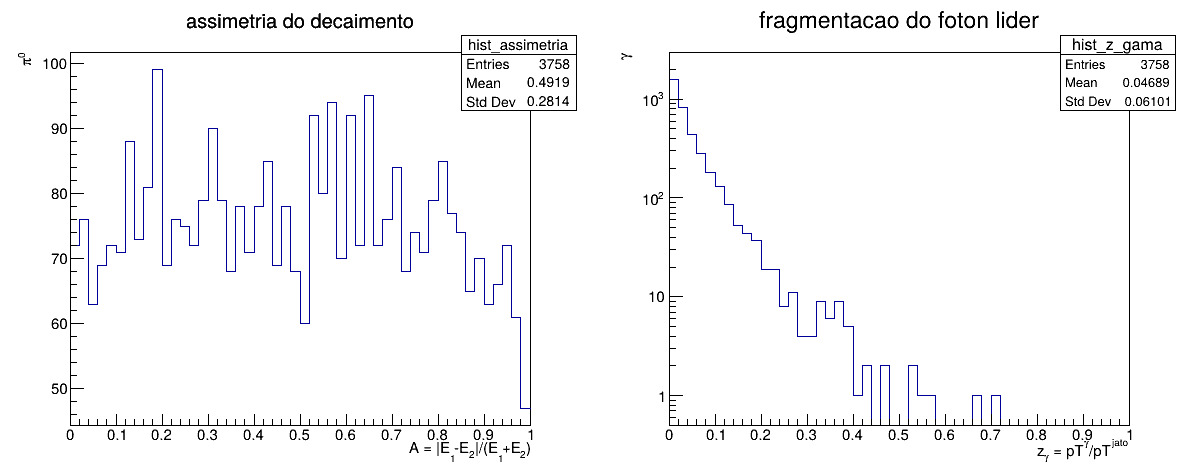
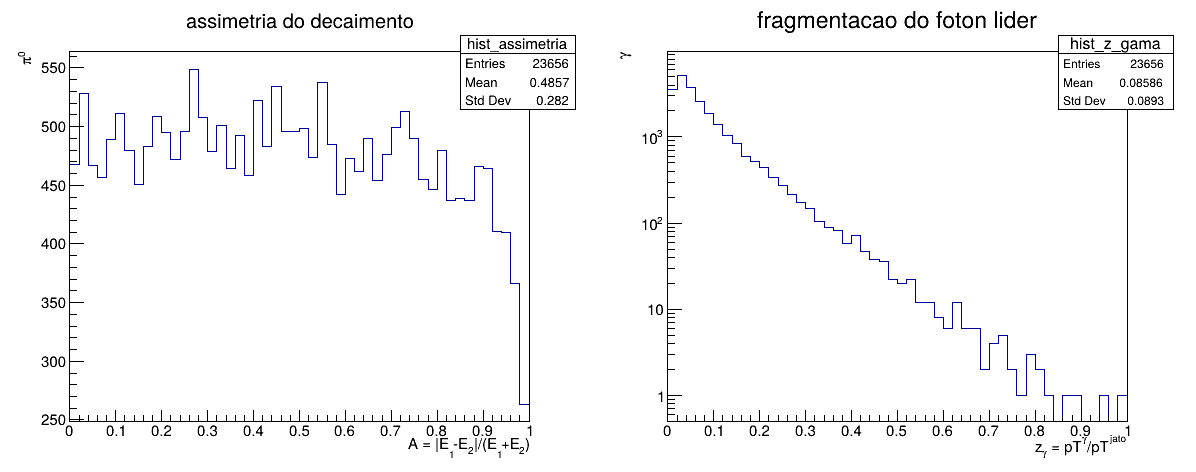
Analise por faixa de pT: lider x nao-lider e corte em z
Amplia o jatos_pi0_decai.cc para investigar onde vivem os pi0 de z alto,
que sao os candidatos a gerar fotons falsamente isolados.

Mudancas na analise:
- 50000 eventos (era 5000), pTHatMin = 4 GeV e pT minimo de jato = 5 GeV,
  para alcancar a regiao de jato mole
- cinco faixas de pT do jato: 5-8, 8-10, 10-12, 12-16 e 16-20 GeV
- histogramas 2D de pT do foton lider x nao-lider, em duas versoes por
  faixa: todos os pi0 e apenas os com z > 0,9
- histograma 2D de z do pi0 x pT do jato, para ver em que regiao a cauda
  de z alto se concentra
- saida em jatos_pi0_decai.root, com todos os histogramas
- resumo no terminal com as contagens por faixa e o numero de pi0 acima
  de varios cortes de z

Figuras novas em figuras/: lider_naolider_cortez, lider_naolider_todos e
z_vs_ptjato; as tres do decaimento foram regeradas com os parametros novos.

Logs de terminal (resumo.txt, saida_100k.txt) ficam fora do versionamento,
mesmo criterio ja' aplicado ao saida.txt.

diff --git a/FotonDireto/jatos_pi0_decai.cc b/FotonDireto/jatos_pi0_decai.cc
@@ -1,12 +1,12 @@
 // Jatos e funcao de fragmentacao do pion neutro -- VERSAO COM O pi0 DECAINDO.
 // Pythia gera, FastJet agrupa em jatos, e medimos z = pT(pi0)/pT(jato).
 //
-
 #include "TSystem.h"
 #include "TClonesArray.h"
 #include "TParticle.h"
 #include "TPythia8.h"
 #include "TCanvas.h"
+#include "TFile.h"
 #include "TH1F.h"
 #include "TH2F.h"
 #include "TMath.h"
@@ -15,7 +15,9 @@
 #include "fastjet/ClusterSequence.hh"
 
 #include <vector>
-#include <set>     // MUDANCA 1: necessario para nao contar o mesmo pi0 duas vezes
+#include <set>
+
+const Int_t NFAIXAS = 5;
 
 // Ponteiros em escopo de arquivo: continuam acessiveis no prompt do ROOT
 // depois que a macro termina, entao da' para mexer nos histogramas.
@@ -26,9 +28,17 @@ TH1F   *hist_z       = 0;
 TH2F   *hist_eta_phi = 0;
 TH1F   *hist_assimetria = 0;
 TH1F   *hist_z_gama     = 0;
+TH2F   *hist_z_vs_ptjato = 0;   // NOVO: onde os z altos vivem
+
+TH2F   *hist_lead_faixa[NFAIXAS]    = {0, 0, 0, 0, 0};   // com z > corte
+TH2F   *hist_lead_faixa_td[NFAIXAS] = {0, 0, 0, 0, 0};   // todos os pi0
+
 TCanvas *c1 = 0;
 TCanvas *c2 = 0;
 TCanvas *c3 = 0;
+TCanvas *c4 = 0;
+TCanvas *c5 = 0;
+TCanvas *c6 = 0;
 
 Bool_t eh_neutrino(Int_t pdg) // devolve true se o PDG for de neutrino
 {
@@ -36,14 +46,13 @@ Bool_t eh_neutrino(Int_t pdg) // devolve true se o PDG for de neutrino
   return (a == 12 || a == 14 || a == 16 || a == 18);
 }
 
-// MUDANCA 2: funcao nova. Sobe a cadeia de maes a partir da particula i e
-// devolve o indice do primeiro pi0 ancestral (-1 se nao houver).
+// Sobe a cadeia de maes a partir da particula i e devolve o indice do primeiro
+// pi0 ancestral (-1 se nao houver).
 //
 // Convencao dos indices, ja' deslocada pelo ROOT no ImportParticles:
 //   m1 <  0     -> nao tem mae, chegou no topo do registro
 //   m2 == m1    -> "carbon copy" (mesma particula recopiada); continua subindo
-//   m2 >  m1    -> FAIXA de maes = hadronizacao da string de cor. PARA AQUI,
-
+//   m2 >  m1    -> FAIXA de maes = hadronizacao da string de cor. PARA AQUI.
 Int_t mae_pi0(TClonesArray *lista, Int_t i)
 {
   Int_t n = lista->GetEntriesFast();
@@ -69,34 +78,41 @@ Int_t mae_pi0(TClonesArray *lista, Int_t i)
 
 void jatos_pi0_decai()
 {
-  // ---- parametros 
-  Int_t    nev          = 5000;
+  // ---- parametros
+  Int_t    nev          = 50000;
   Double_t R            = 0.4;
-  Double_t pt_jato_min  = 20.;
+  Double_t pt_jato_min  = 5.;      // casa com a primeira faixa
   Double_t eta_part_max = 0.9;
   Double_t y_jato_max   = 0.9 - R;
   Double_t energia      = 14000.;
+  Double_t corte_z      = 0.9;     // troque aqui para 0,7 ou 0,5 se precisar
 
-  // ---- Pythia 
+  // limites das cinco faixas de pT do jato
+  Double_t faixa_lo[NFAIXAS] = { 5.,  8., 10., 12., 16.};
+  Double_t faixa_hi[NFAIXAS] = { 8., 10., 12., 16., 20.};
 
+  // ---- arquivo de saida: criado ANTES dos histogramas, para que todos
+  // ---- sejam associados a ele e salvos automaticamente no Write()
+  TFile *arquivo = new TFile("jatos_pi0_decai.root", "RECREATE");
+
+  // ---- Pythia
   TPythia8 *pythia8 = new TPythia8();
   pythia8->ReadString("HardQCD:all = on");
   pythia8->ReadString("Random:setSeed = on");
-
-  pythia8->ReadString("PhaseSpace:pTHatMin = 20."); // sem isso quase nao sai jato acima de 20 GeV
+  pythia8->ReadString("PhaseSpace:pTHatMin = 4.");  // um pouco abaixo do corte
   pythia8->ReadString("Random:seed = 43");
 
   pythia8->Initialize(2212, 2212, energia);
 
   TClonesArray *particulas = new TClonesArray("TParticle", 10000);
 
-  // ---- FastJet -------------------------------------------------------------
+  // ---- FastJet
   fastjet::JetDefinition jet_def(fastjet::antikt_algorithm, R);
   std::vector<fastjet::PseudoJet> entradas;
 
-  // ---- histogramas ---------------------------------------------------------
+  // ---- histogramas
   hist_pt_jato = new TH1F("hist_pt_jato",
-      "pT dos jatos;pT^{jato} [GeV/c];jatos", 100, 0, 150);
+      "pT dos jatos;pT^{jato} [GeV/c];jatos", 100, 0, 100);
   hist_n_part  = new TH1F("hist_n_part",
       "particulas por jato;N_{const};jatos", 60, 0, 60);
   hist_pt_pi0  = new TH1F("hist_pt_pi0",
@@ -107,7 +123,6 @@ void jatos_pi0_decai()
       "mapa #eta-#phi dos #pi^{0};#eta;#phi [rad]",
       60, -eta_part_max, eta_part_max, 60, -TMath::Pi(), TMath::Pi());
 
-  
   hist_assimetria = new TH1F("hist_assimetria",
       "assimetria do decaimento;A = |E_{1}-E_{2}|/(E_{1}+E_{2});#pi^{0}",
       50, 0, 1);
@@ -115,13 +130,42 @@ void jatos_pi0_decai()
       "fragmentacao do foton lider;z_{#gamma} = pT^{#gamma}/pT^{jato};#gamma",
       50, 0, 1);
 
-  Long64_t n_jatos = 0, n_pi0 = 0;
-  Long64_t n_gama = 0;   // ADICAO 3: quantos pares gama gama foram analisados
+  // NOVO: mostra em qual regiao de pT do jato os z altos aparecem
+  hist_z_vs_ptjato = new TH2F("hist_z_vs_ptjato",
+      "z do #pi^{0} x pT do jato;pT^{jato} [GeV/c];z = pT^{#pi^{0}}/pT^{jato}",
+      50, 0, 50, 50, 0, 1);
 
-  // ---- laco de eventos -----------------------------------------------------
+  // os dez histogramas 2D (cinco faixas, com e sem corte de z).
+  // Nome e titulo sao montados com sprintf porque mudam de faixa para faixa.
+  char nome[100], titulo[200];
+
+  for (Int_t f = 0; f < NFAIXAS; f++)
+  {
+    sprintf(nome, "hist_lead_faixa_%d", f);
+    sprintf(titulo,
+        "pT lider x nao-lider, %.0f < pT^{jato} < %.0f GeV, z > %.1f;"
+        "pT^{#gamma lider} [GeV/c];pT^{#gamma nao-lider} [GeV/c]",
+        faixa_lo[f], faixa_hi[f], corte_z);
+    hist_lead_faixa[f] = new TH2F(nome, titulo, 50, 0, 20, 50, 0, 20);
+
+    sprintf(nome, "hist_lead_faixa_td_%d", f);
+    sprintf(titulo,
+        "pT lider x nao-lider, %.0f < pT^{jato} < %.0f GeV, todos os #pi^{0};"
+        "pT^{#gamma lider} [GeV/c];pT^{#gamma nao-lider} [GeV/c]",
+        faixa_lo[f], faixa_hi[f]);
+    hist_lead_faixa_td[f] = new TH2F(nome, titulo, 50, 0, 20, 50, 0, 20);
+  }
+
+  Long64_t n_jatos = 0, n_pi0 = 0;
+  Long64_t n_gama = 0;                      // pares gama gama analisados
+  Long64_t n_faixa[NFAIXAS]    = {0, 0, 0, 0, 0};   // entradas com z > corte
+  Long64_t n_faixa_td[NFAIXAS] = {0, 0, 0, 0, 0};   // entradas sem corte
+
+  // ---- laco de eventos
   for (Int_t iev = 0; iev < nev; iev++)
   {
-    if (iev % 500 == 0) printf("  evento %d / %d\n", iev, nev);
+    if (iev % 10000 == 0) printf("  evento %d / %d\n", iev, nev);
+
     pythia8->GenerateEvent();
     pythia8->ImportParticles(particulas, "All");
     Int_t np = particulas->GetEntriesFast();
@@ -148,7 +192,7 @@ void jatos_pi0_decai()
     std::vector<fastjet::PseudoJet> jatos =
         fastjet::sorted_by_pt(cluster_seq.inclusive_jets(pt_jato_min));
 
-    // ---- laco de jatos -----------------------------------------------------
+    // ---- laco de jatos
     Int_t n_jatos_ev = jatos.size();
     for (Int_t ij = 0; ij < n_jatos_ev; ij++)
     {
@@ -163,7 +207,12 @@ void jatos_pi0_decai()
       hist_pt_jato->Fill(pt_jato);
       hist_n_part ->Fill(n_const);
 
-      // ---- laco de constituintes: procura os pi0 ---------------------------
+      // descobre em qual faixa de pT este jato cai (-1 = fora de todas)
+      Int_t faixa = -1;
+      for (Int_t f = 0; f < NFAIXAS; f++)
+        if (pt_jato >= faixa_lo[f] && pt_jato < faixa_hi[f]) faixa = f;
+
+      // ---- laco de constituintes: procura os pi0
       std::set<Int_t> indices_pi0;
 
       for (Int_t ic = 0; ic < n_const; ic++)
@@ -190,9 +239,10 @@ void jatos_pi0_decai()
         Double_t phi = part->Phi();
         if (phi > TMath::Pi()) phi -= 2 * TMath::Pi();
 
-        hist_pt_pi0 ->Fill(pt_pi0);
-        hist_z      ->Fill(z);
-        hist_eta_phi->Fill(part->Eta(), phi);
+        hist_pt_pi0     ->Fill(pt_pi0);
+        hist_z          ->Fill(z);
+        hist_eta_phi    ->Fill(part->Eta(), phi);
+        hist_z_vs_ptjato->Fill(pt_jato, z);   // NOVO
 
         // O pi0 encontrado pelo mae_pi0() e' justamente a copia que decaiu,
         // entao as filhas dele sao os dois fotons.
@@ -213,44 +263,91 @@ void jatos_pi0_decai()
         Double_t assimetria = TMath::Abs(e1 - e2) / (e1 + e2);
         hist_assimetria->Fill(assimetria);
 
-        // funcao de fragmentacao do foton MAIS ENERGETICO dos dois
-        TParticle *gama_lider = gama1;
-        if (e2 > e1) gama_lider = gama2;
+        // separa o foton lider (mais energetico) do nao-lider
+        TParticle *gama_lider     = gama1;
+        TParticle *gama_nao_lider = gama2;
+        if (e2 > e1) { gama_lider = gama2; gama_nao_lider = gama1; }
 
         Double_t z_gama = gama_lider->Pt() / pt_jato;
         hist_z_gama->Fill(z_gama);
 
         n_gama++;
+
+        // os histogramas 2D por faixa de pT do jato
+        if (faixa >= 0)
+        {
+          Double_t pt_lider     = gama_lider->Pt();
+          Double_t pt_nao_lider = gama_nao_lider->Pt();
+
+          // versao sem corte de z: todos os pi0 da faixa
+          hist_lead_faixa_td[faixa]->Fill(pt_lider, pt_nao_lider);
+          n_faixa_td[faixa]++;
+
+          // versao com corte: so os pi0 que levam mais que corte_z do jato
+          if (z > corte_z)
+          {
+            hist_lead_faixa[faixa]->Fill(pt_lider, pt_nao_lider);
+            n_faixa[faixa]++;
+          }
+        }
       }
     }
   }
 
-  // ---- canvas 1: quatro paineis --------------------------------------------
+  // ---- canvas 1: quatro paineis
   c1 = new TCanvas("c1", "Jatos e fragmentacao do pi0", 1200, 1000);
   c1->Divide(2, 2);
   c1->cd(1); hist_pt_jato->Draw();
   c1->cd(2); hist_n_part ->Draw();
   c1->cd(3); hist_pt_pi0 ->Draw();
   c1->cd(4); hist_z->Draw();
-  c1->Update();                 
+  c1->Update();
   c1->SaveAs("jatos_pi0_decai.png");
 
-  // ---- canvas 2: mapa eta-phi ----------------------------------------------
+  // ---- canvas 2: mapa eta-phi
   c2 = new TCanvas("c2", "Mapa eta-phi dos pi0", 900, 700);
   hist_eta_phi->Draw("COLZ");
   c2->Update();
   c2->SaveAs("mapa_eta_phi_decai.png");
 
-  // ---- canvas 3: fotons do decaimento --------------------------------------
-  // ADICAO 6: canvas novo, para nao mexer no layout 2x2 do c1.
+  // ---- canvas 3: fotons do decaimento
   c3 = new TCanvas("c3", "Fotons do decaimento do pi0", 1200, 500);
   c3->Divide(2, 1);
   c3->cd(1); hist_assimetria->Draw();                  // deve sair PLANA
-  c3->cd(2); gPad->SetLogy(); hist_z_gama->Draw();     // tambem em log
+  c3->cd(2); gPad->SetLogy(); hist_z_gama->Draw();
   c3->Update();
   c3->SaveAs("fotons_decai.png");
 
-  // ---- resumo --------------------------------------------------------------
+  // ---- canvas 4: lider x nao-lider, com corte de z
+  c4 = new TCanvas("c4", "Lider x nao-lider (com corte de z)", 1500, 1000);
+  c4->Divide(3, 2);
+  for (Int_t f = 0; f < NFAIXAS; f++)
+  {
+    c4->cd(f + 1);
+    hist_lead_faixa[f]->Draw("COLZ");
+  }
+  c4->Update();
+  c4->SaveAs("lider_naolider_cortez.png");
+
+  // ---- canvas 5: lider x nao-lider, todos os pi0 (para comparar)
+  c5 = new TCanvas("c5", "Lider x nao-lider (todos)", 1500, 1000);
+  c5->Divide(3, 2);
+  for (Int_t f = 0; f < NFAIXAS; f++)
+  {
+    c5->cd(f + 1);
+    hist_lead_faixa_td[f]->Draw("COLZ");
+  }
+  c5->Update();
+  c5->SaveAs("lider_naolider_todos.png");
+
+  // ---- canvas 6: z versus pT do jato
+  c6 = new TCanvas("c6", "z x pT do jato", 900, 700);
+  gPad->SetLogz();                     // escala log nas cores: realca a cauda
+  hist_z_vs_ptjato->Draw("COLZ");
+  c6->Update();
+  c6->SaveAs("z_vs_ptjato.png");
+
+   // ---- resumo
   printf("\n===================== RESUMO =====================\n");
   printf("  eventos gerados           : %d\n", nev);
   printf("  jatos reconstruidos       : %lld\n", n_jatos);
@@ -259,11 +356,29 @@ void jatos_pi0_decai()
          n_jatos ? (Double_t) n_pi0 / n_jatos : 0.);
   printf("  <pT> dos jatos            : %.2f GeV/c\n", hist_pt_jato->GetMean());
   printf("  <z> dos pi0               : %.4f\n", hist_z->GetMean());
-  // ADICAO 7: linhas novas no resumo
   printf("  pares gama gama           : %lld\n", n_gama);
   printf("  <A> assimetria            : %.4f   (esperado ~0,5 se plana)\n",
          hist_assimetria->GetMean());
   printf("  RMS da assimetria         : %.4f   (esperado ~0,289 = 1/sqrt12)\n",
          hist_assimetria->GetRMS());
   printf("  <z> do foton lider        : %.4f\n", hist_z_gama->GetMean());
+  printf("--------------------------------------------------\n");
+  printf("  ENTRADAS POR FAIXA DE pT DO JATO\n");
+  printf("  faixa [GeV]     todos      z > %.1f\n", corte_z);
+  for (Int_t f = 0; f < NFAIXAS; f++)
+    printf("  %4.0f - %-4.0f   %8lld   %8lld\n",
+           faixa_lo[f], faixa_hi[f], n_faixa_td[f], n_faixa[f]);
+  printf("--------------------------------------------------\n");
+  printf("  pi0 acima de varios cortes de z (todas as faixas):\n");
+  printf("    z > 0,5 : %8.0f\n", hist_z->Integral(hist_z->FindBin(0.5), 50));
+  printf("    z > 0,6 : %8.0f\n", hist_z->Integral(hist_z->FindBin(0.6), 50));
+  printf("    z > 0,7 : %8.0f\n", hist_z->Integral(hist_z->FindBin(0.7), 50));
+  printf("    z > 0,9 : %8.0f\n", hist_z->Integral(hist_z->FindBin(0.9), 50));
+  printf("  total de pi0 no hist_z    : %8.0f\n", hist_z->GetEntries());
+  printf("==================================================\n");
+
+  // ---- salva tudo no arquivo .root (POR ULTIMO, depois de usar os histogramas)
+  arquivo->Write();
+  arquivo->Close();
+  printf("  Arquivo salvo: jatos_pi0_decai.root\n");
 }
